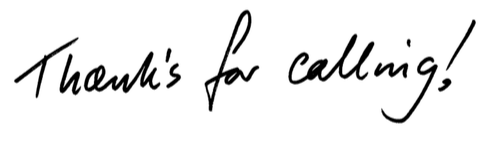
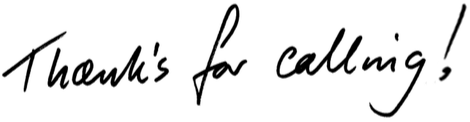
updated signature image

diff --git a/assets/css/main.css b/assets/css/main.css
@@ -5977,10 +5977,13 @@ button.list-group-item-snapshot {
     font-weight: bolder; }
 
 .signature {
-  height: 110px; }
+  height: 110px;
+  margin: 0 auto; }
   .signature img {
-    margin: 12px auto;
-    max-width: 230px; }
+    display: block;
+    padding-top: 25px;
+    margin: 0 auto;
+    max-width: 200px; }
 
 .associations {
   overflow: hidden;

diff --git a/sass/main.scss b/sass/main.scss
@@ -122,11 +122,16 @@ $list-group-border: #ccc;
 
 .signature {
     height: 110px;
+    margin: 0 auto;
+    
     img {
-        margin: 12px auto;
-        max-width: 230px;
+        display: block;
+        padding-top: 25px;
+        margin: 0 auto;
+        max-width: 200px;
     }
 }
+
 .associations {
     
     overflow: hidden;
